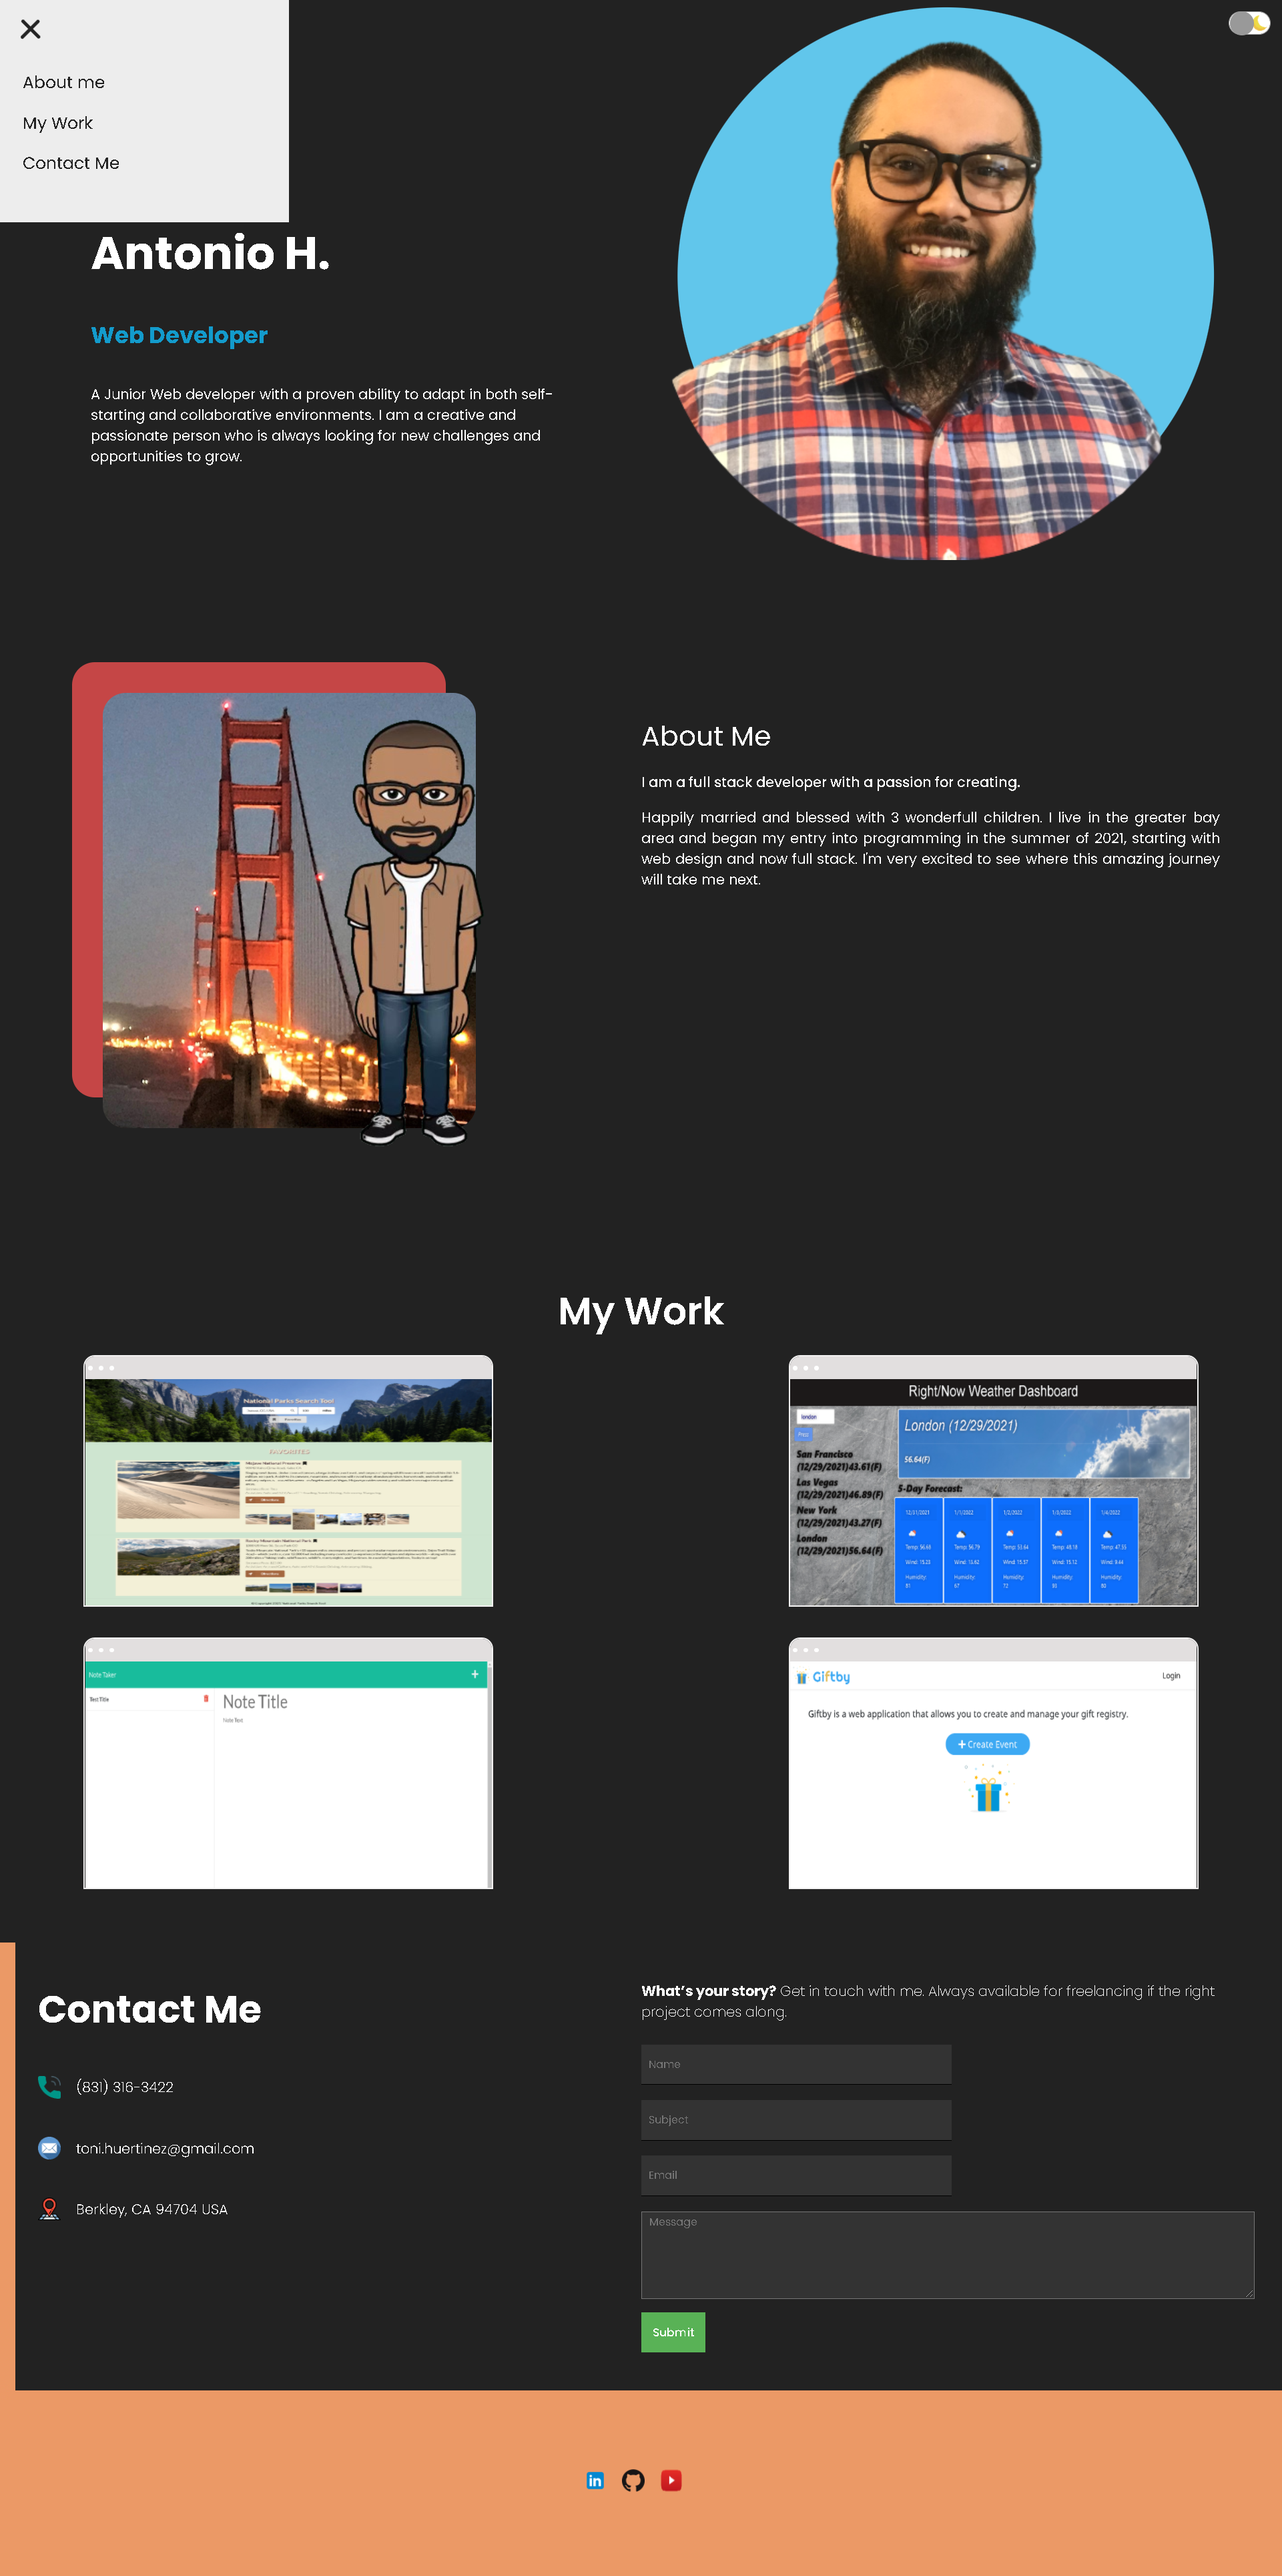
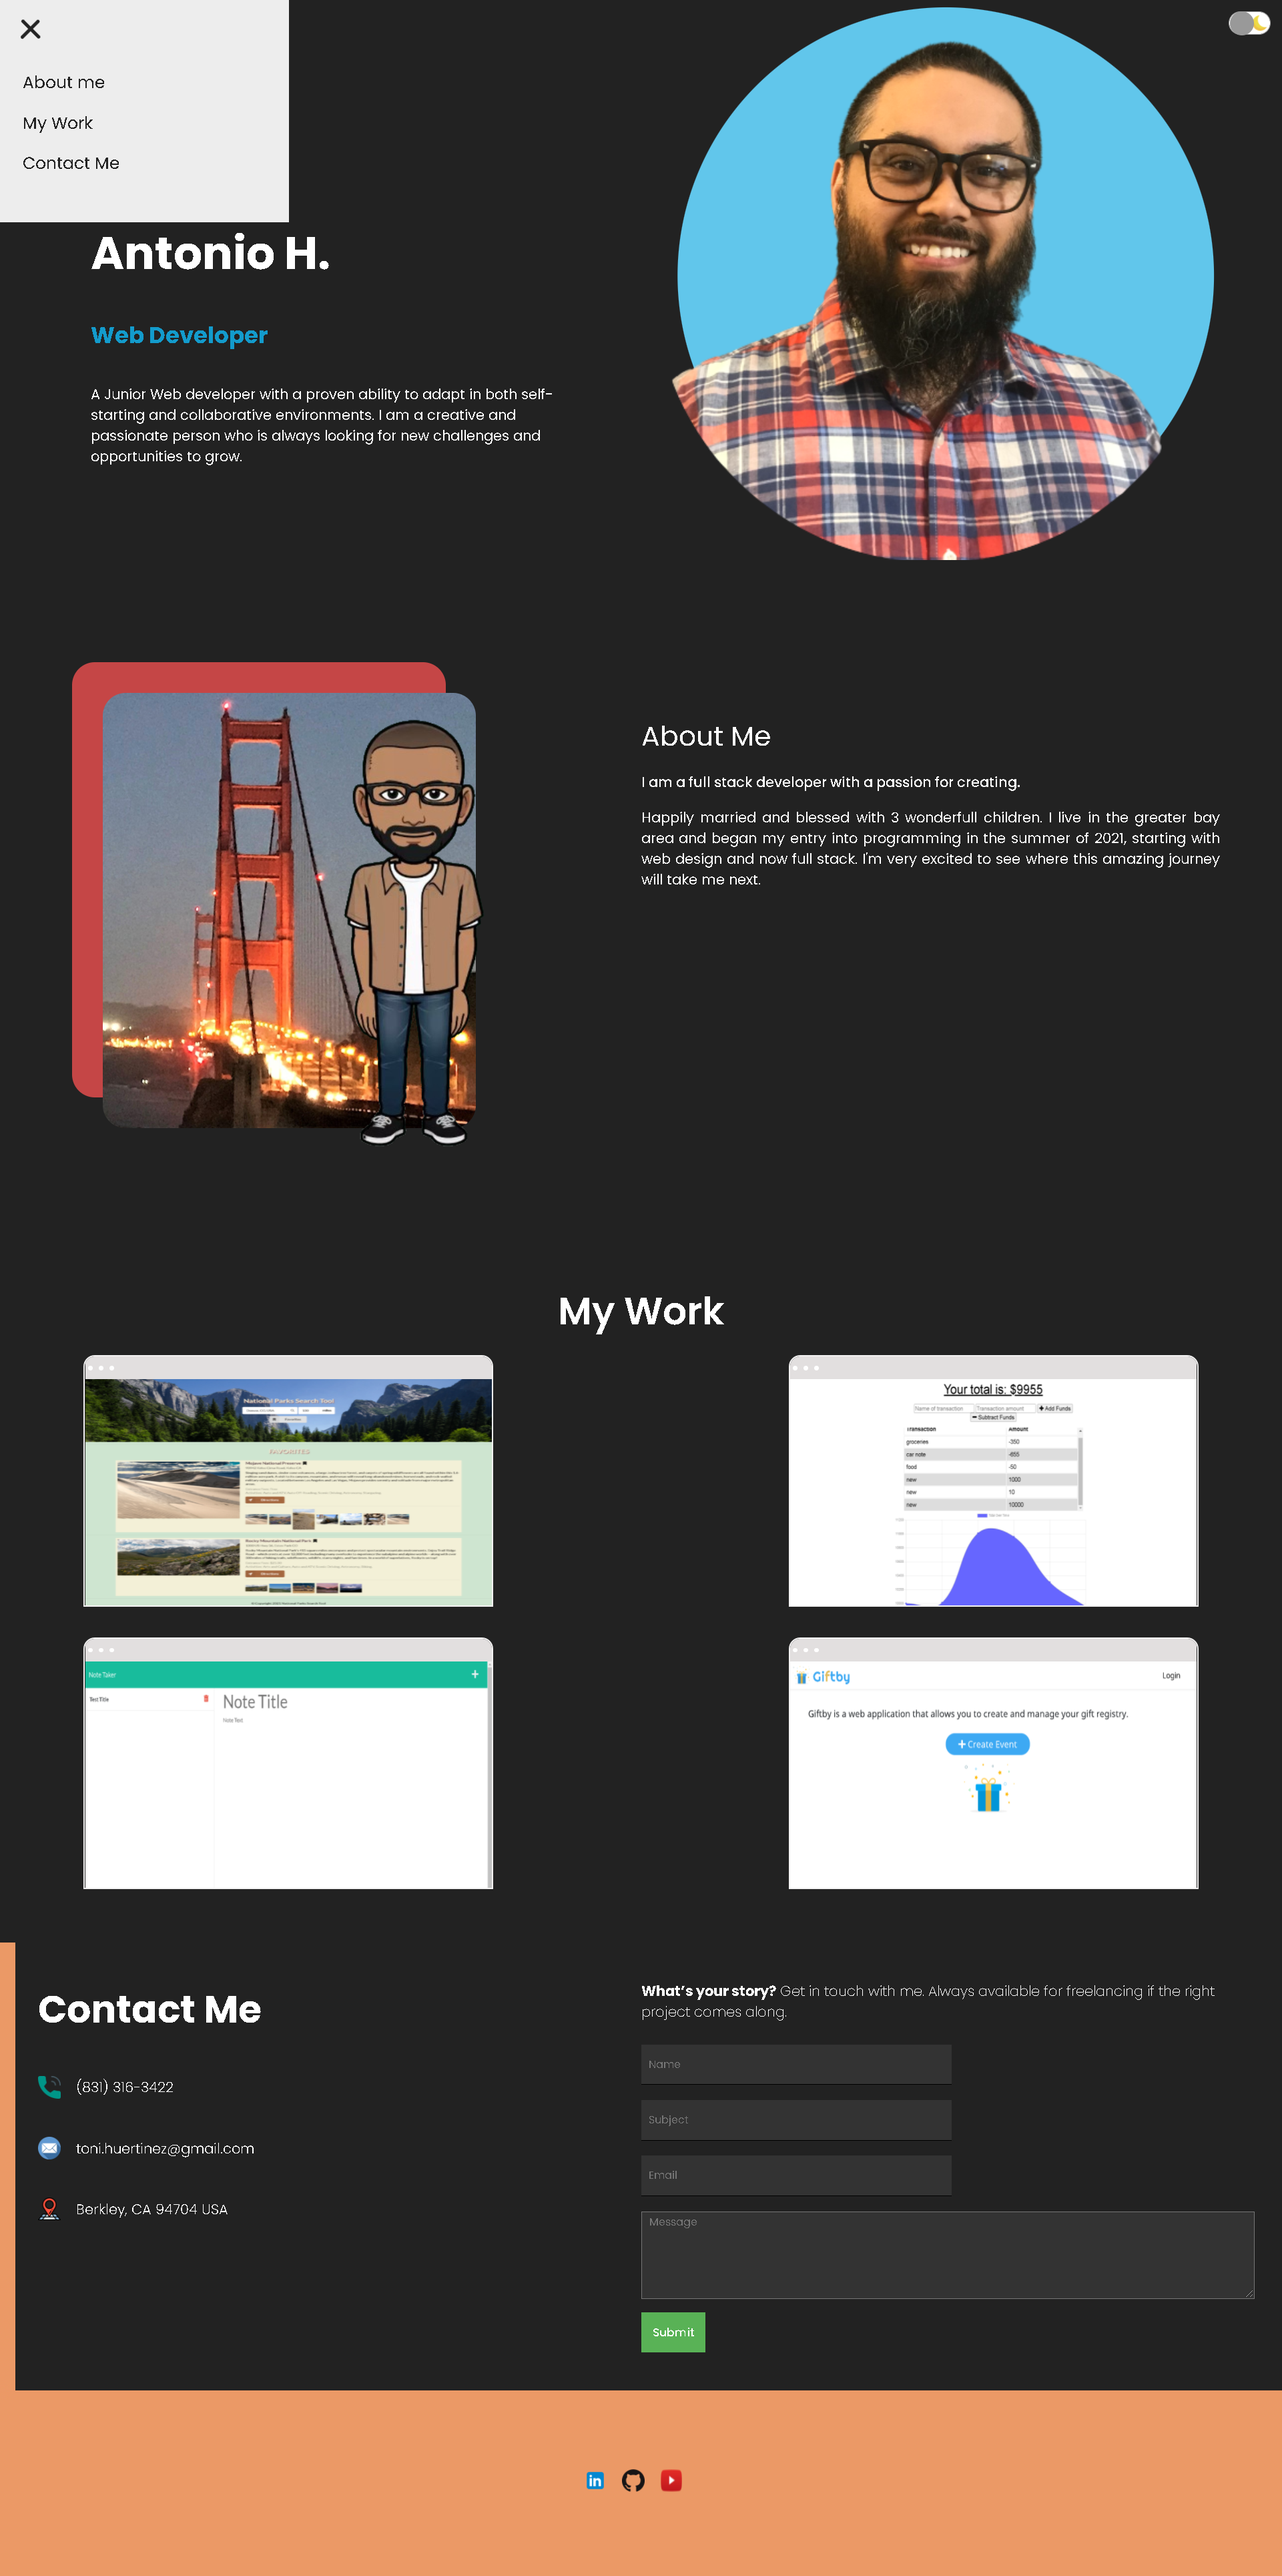
changes to portfolio

Changed region(s): [[0.5934, 0.5286, 0.937, 0.6219]]

diff --git a/src/components/productList/ProductList.js b/src/components/productList/ProductList.js
@@ -11,8 +11,8 @@ const data = [
   {
     id: 2,
     name: "Weather Dashboard",
-    img: process.env.PUBLIC_URL + "/img/Right-Now-Weather.png",
-    link: "https://tonycodesnow.github.io/Right-Now-Weather/",
+    img: process.env.PUBLIC_URL + "/img/Budget-Tracker-sc.png",
+    link: "https://trackingbudgets.herokuapp.com/",
   },
   {
     id: 3,

diff --git a/README.md b/README.md
@@ -22,13 +22,13 @@
 
 ## Screenshot
 
-<img src=".../../src/img/Portfolio.png" alt="Screenshot"/>
+<img src=".../../src/img/Portfolio.png"  width="50%"/>
 
 <br>
 
 # Deployed:
 
-https://tonycodesnow.github.io/React-Portfolio/
+https://act-folio.herokuapp.com/
 
 <br>
 
